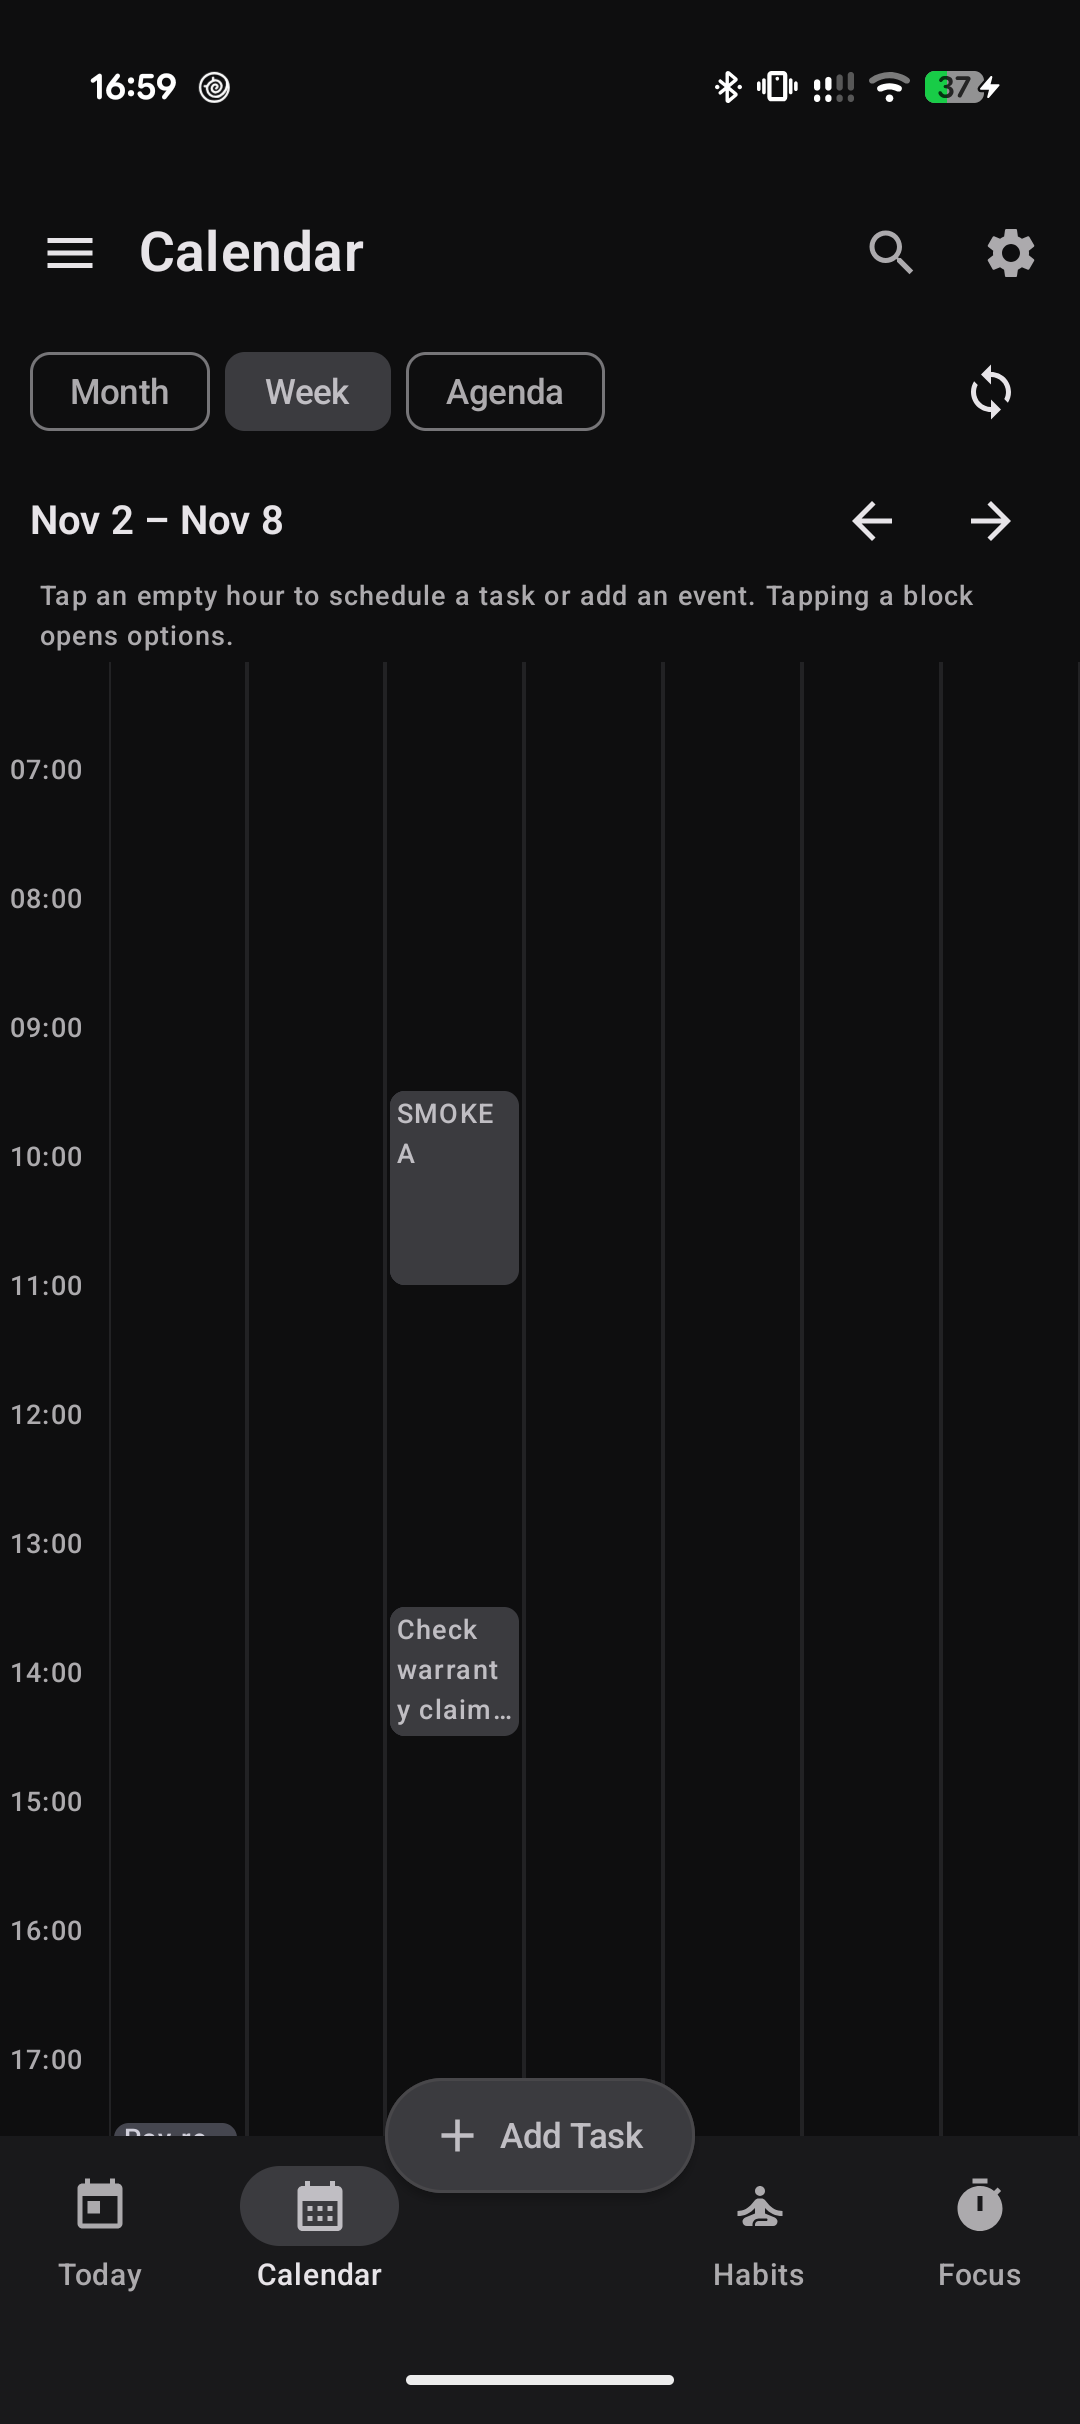
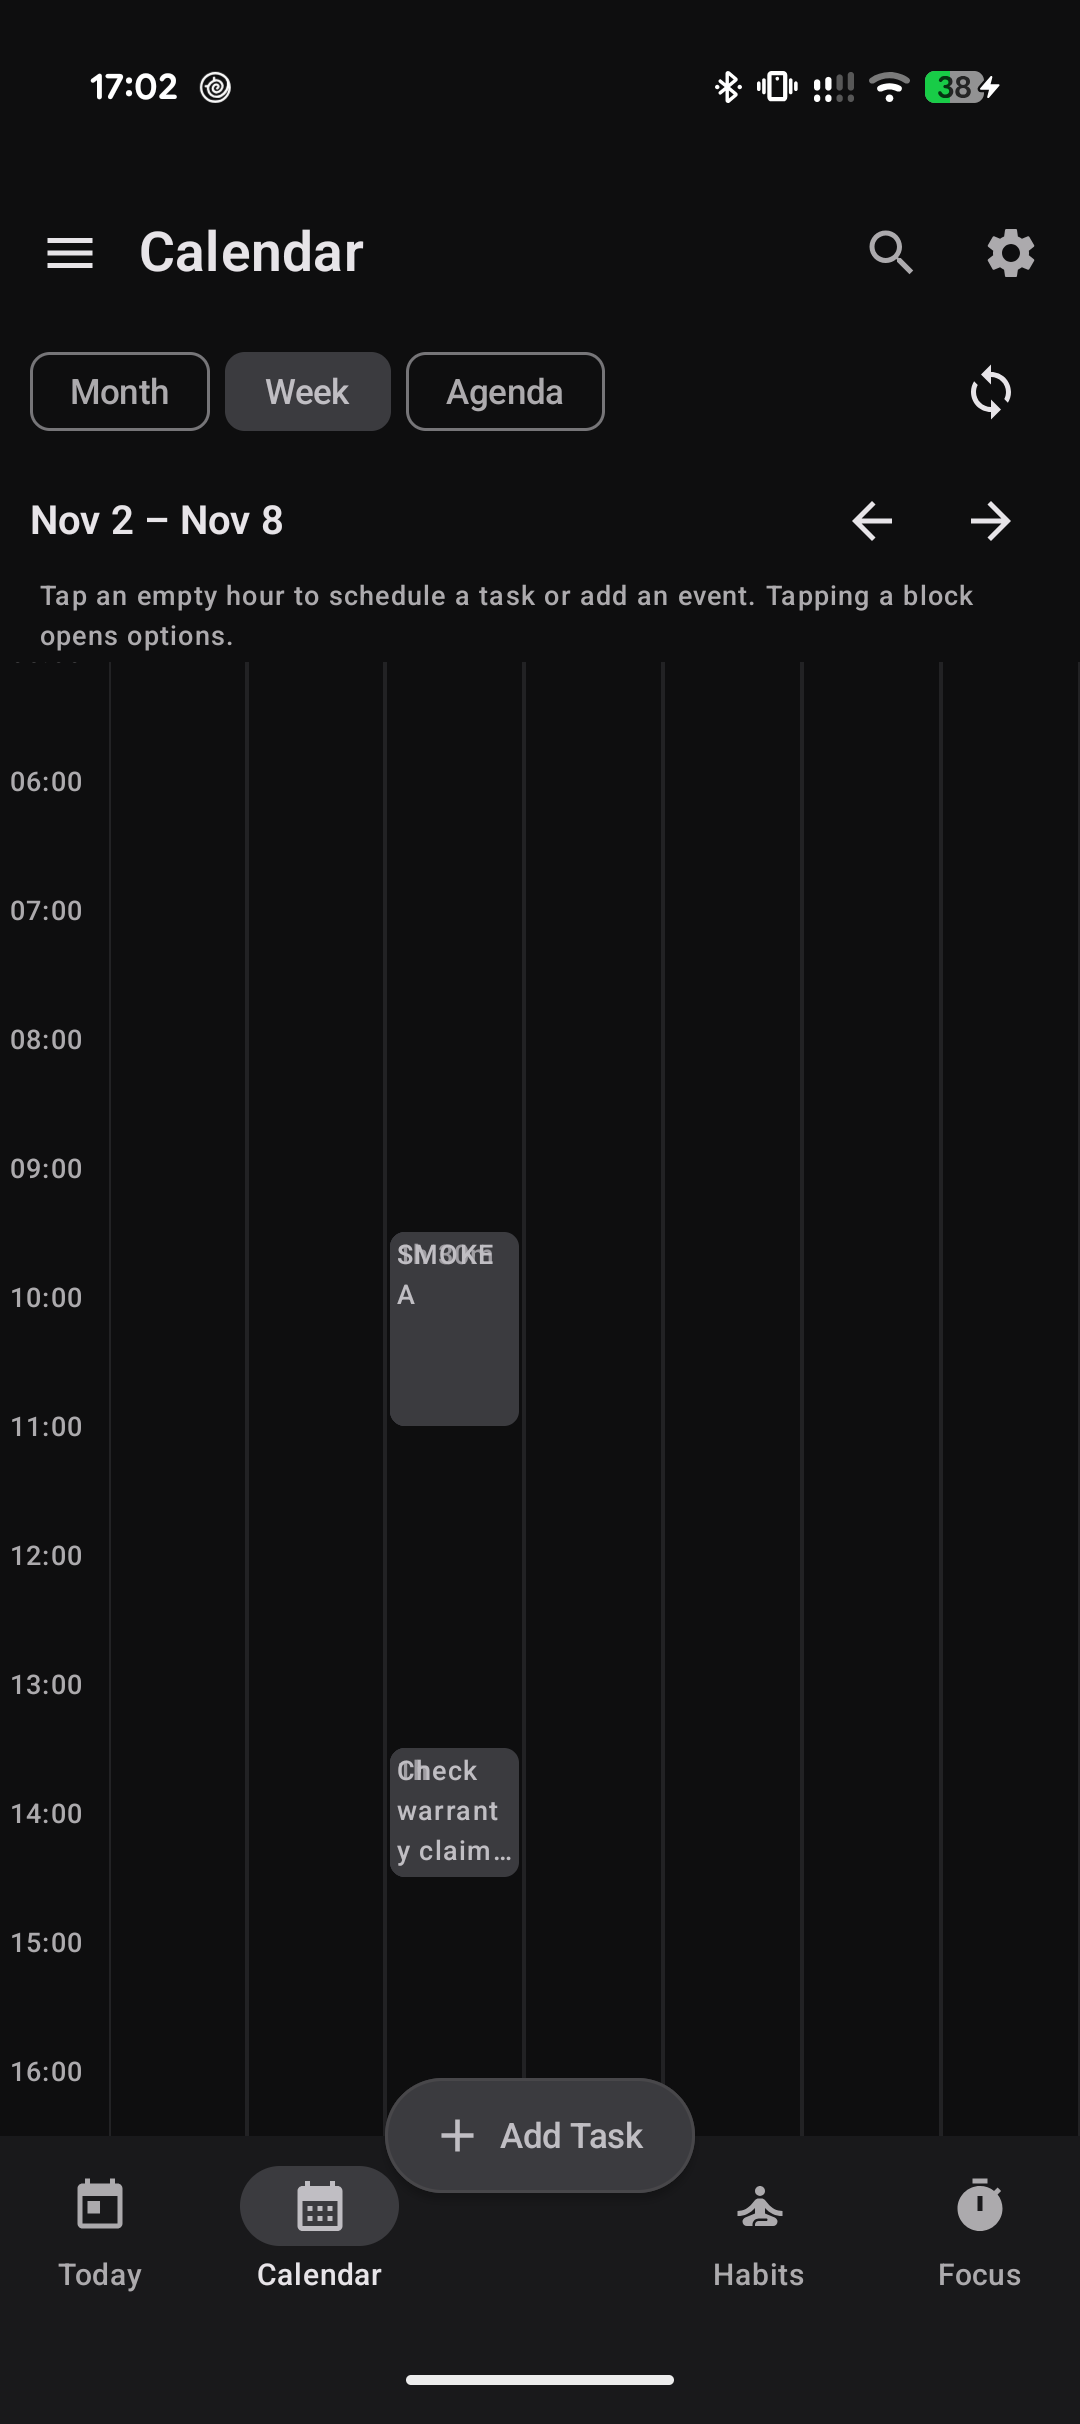
G1: skip task block when linked event block renders (fixes double-draw ghosting)

diff --git a/app/src/main/java/com/orvane/app/ui/calendar/CalendarScreen.kt b/app/src/main/java/com/orvane/app/ui/calendar/CalendarScreen.kt
@@ -638,9 +638,12 @@ private fun DayColumn(
                     },
             )
         }
-        // task time blocks (due datetime); G1: span start → start + duration
+        // task time blocks (due datetime); G1: span start → start + duration.
+        // Tasks with a linked event block are skipped — the event block already
+        // represents them (drawing both ghosts the text).
         for (t in tasks) {
             val due = t.due ?: continue
+            if (events.any { it.linkedTaskId == t.id }) continue
             val lt = Time.toLocalTime(due)
             val top = HOUR_HEIGHT * (lt.hour + lt.minute / 60f)
             val blockMillis = com.orvane.app.core.calendar.TaskBlocks.blockMillis(t.durationMinutes)
